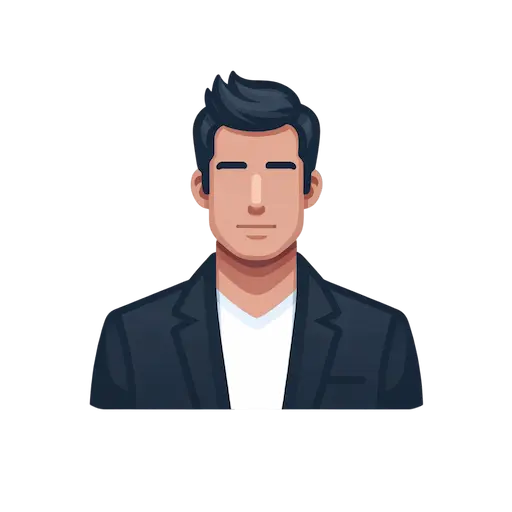
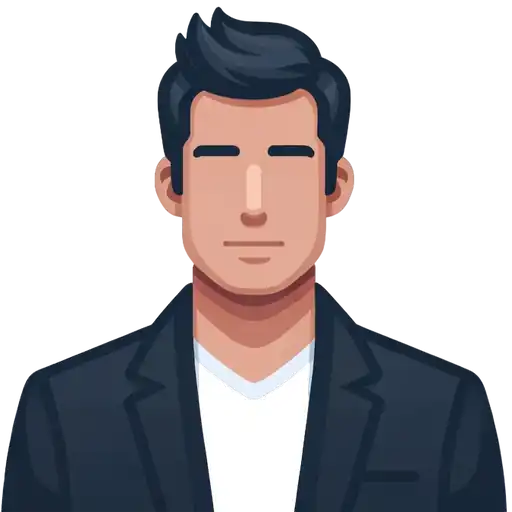
feat(PersonalInfo): display user photo

diff --git a/demo/src/dummy.ts b/demo/src/dummy.ts
@@ -13,6 +13,7 @@ const info: IPersonalInfo = {
   addressUrl: "https://maps.app.goo.gl/example",
   timezone: "EST (UTC-5)",
   summary: 'Passionate Full-stack Developer with extensive experience in creating dynamic, high-performance web applications. Skilled in a variety of programming languages and tools, with a strong focus on user experience and efficient coding practices. Adept at working in fast-paced environments and delivering projects on time. Committed to continuous learning and adopting new technologies.',
+  image: "images/john-doe.webp",
 };
 
 const experience: Array<IExperience> = [

diff --git a/packages/cv-astro/src/cv.d.ts b/packages/cv-astro/src/cv.d.ts
@@ -32,6 +32,7 @@ export interface IPersonalInfo {
   timezone: string;
   addressUrl: string;
   summary: string;
+  image?: string;
 }
 
 export interface IExperience {
